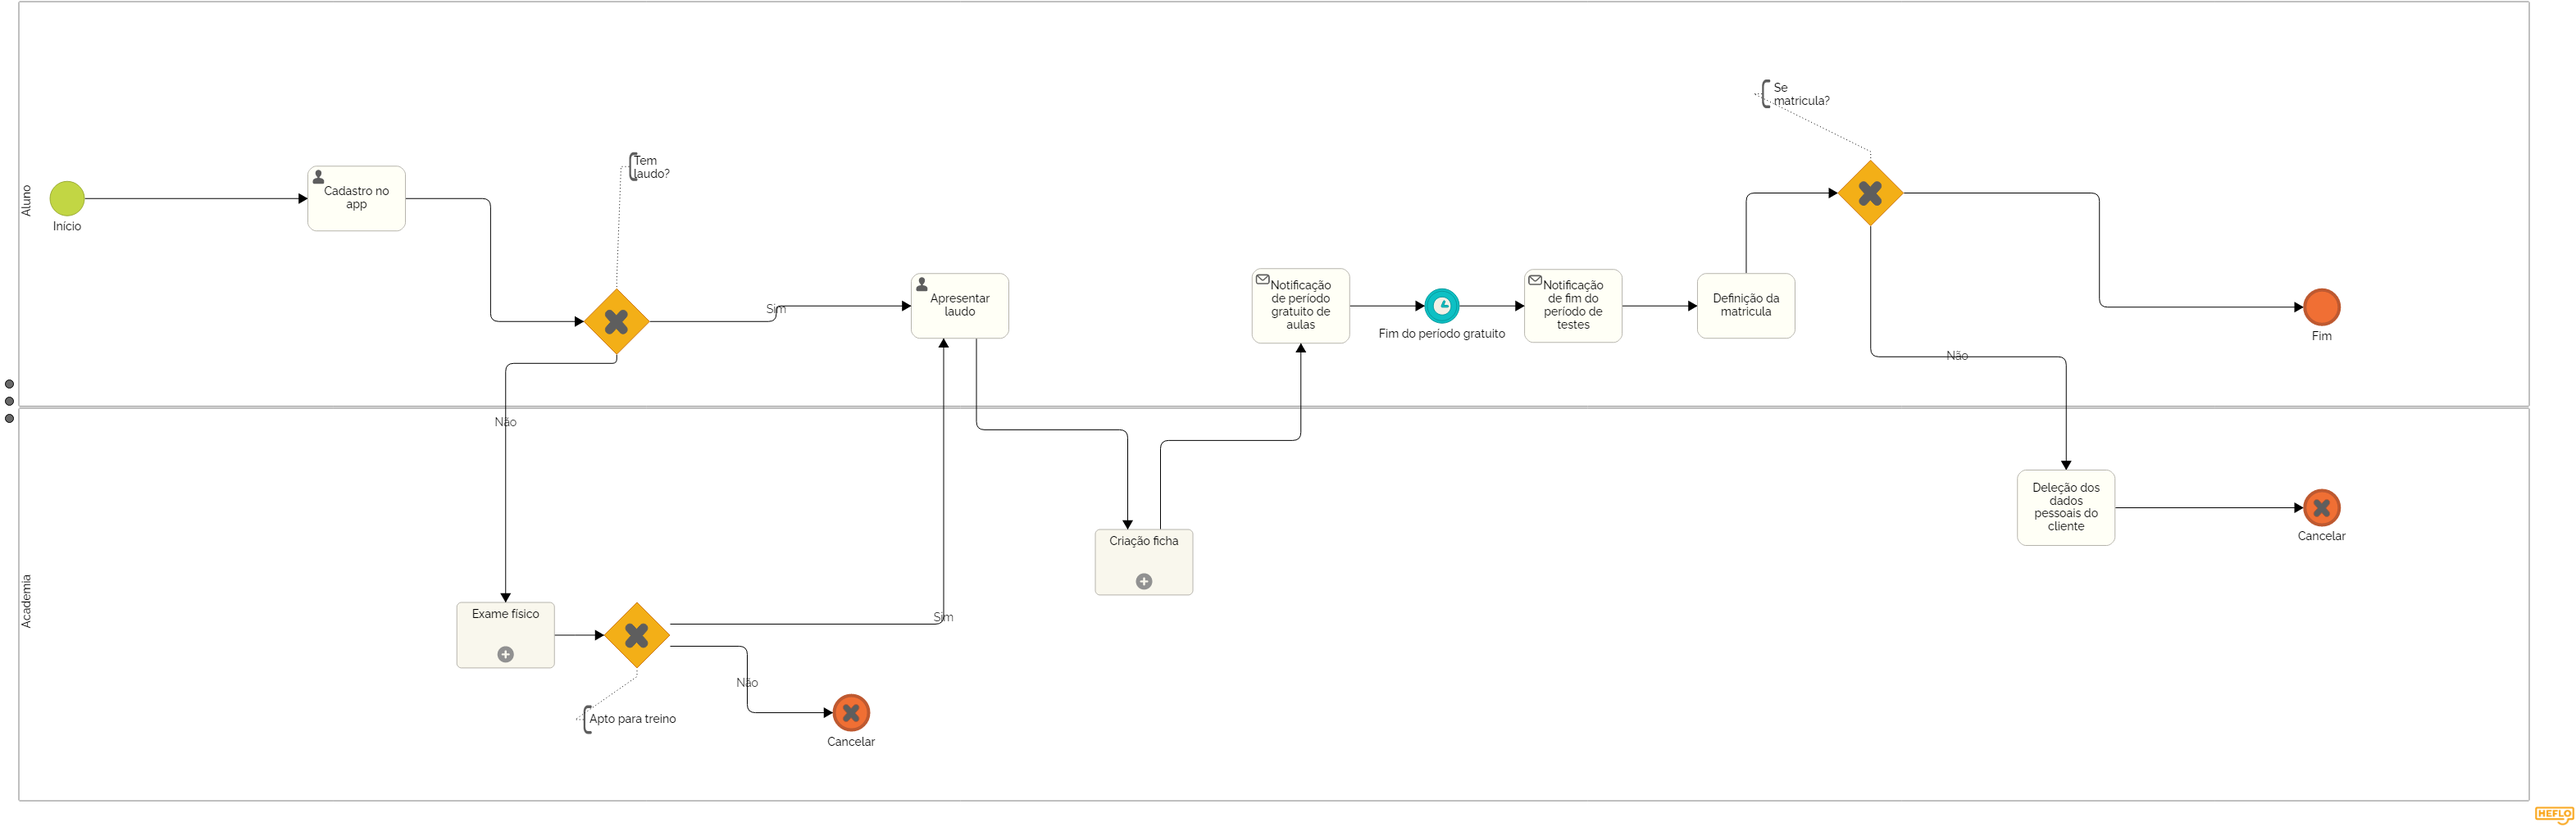
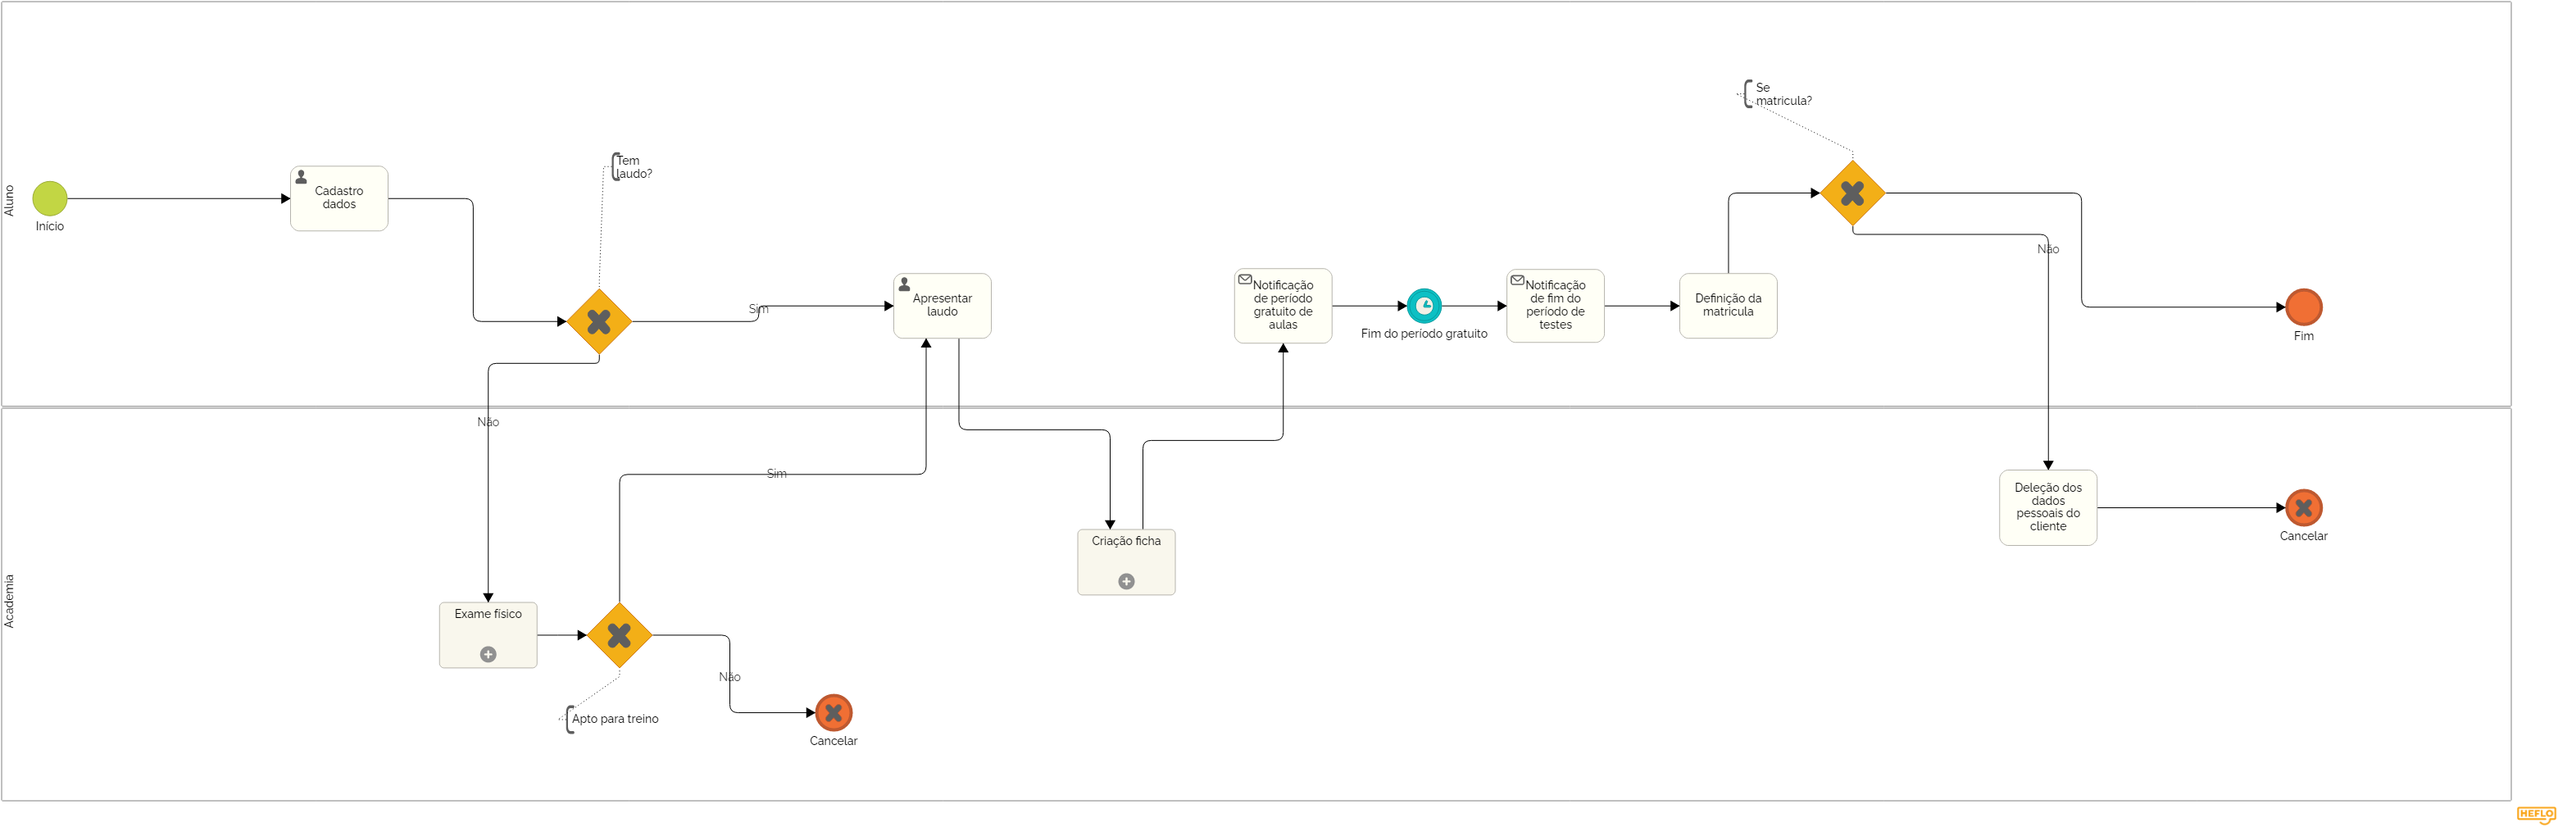
projeto solução criado e adaptação mapeamento #24

diff --git a/docs/relatorio_final.md b/docs/relatorio_final.md
@@ -128,23 +128,33 @@ O aplicativo em desenvolvimento, surge para solucionar esse deficit gerado pela 
 
 Descrever aqui cada uma das propriedades das atividades de cada um dos processos. Devem estar relacionadas com o modelo de processo apresentado anteriormente.
 
-#### Processo 1 – NOME DO PROCESSO
+#### Processo 1 – Matrícula academia
 
-**Nome da atividade 1**
-
-| **Campo** | **Tipo** | **Restrições** | **Valor default** |
-| --- | --- | --- | --- |
-| [Nome do campo] | [Área de texto, Caixa de texto, Número, Data, Imagem, Seleção única, Múltipla escolha, Arquivo, Link, Tabela] |  |  |
-| ***Exemplo:***  |    |     |
-| login | Caixa de Texto | formato de e-mail |  |
-| senha | Caixa de Texto | mínimo de 8 caracteres |   |
-
-**Nome da atividade 2**
+**Cadastro dados**
 
 | **Campo** | **Tipo** | **Restrições** | **Valor default** |
 | --- | --- | --- | --- |
 | [Nome do campo] | [Área de texto, Caixa de texto, Número, Data, Imagem, Seleção única, Múltipla escolha, Arquivo, Link, Tabela] |  |  |
-|    |    |     |
+| Nome | Caixa de Texto |  |  |
+| Gênero | caixa de texto | | |
+| Idade | número |  |  |
+| CPF | número | devem possuir 11 algarismos |  |
+| Naturalidade | campo de texto |  |  |
+| endereço | rich text |  |  |
+|forma de pagamento | campo de texto |  |  |
+
+**Apresentar laudo**
+
+| **Campo** | **Tipo** | **Restrições** | **Valor default** |
+| --- | --- | --- | --- |
+| Laudo | anexo | o laudo deve ser válido |  |
+
+**definição matrícula**
+
+| **Campo** | **Tipo** | **Restrições** | **Valor default** |
+| --- | --- | --- | --- |
+| matricula | múltipla escolha |  |  |
+
 
 #### Processo 2 – NOME DO PROCESSO
 
